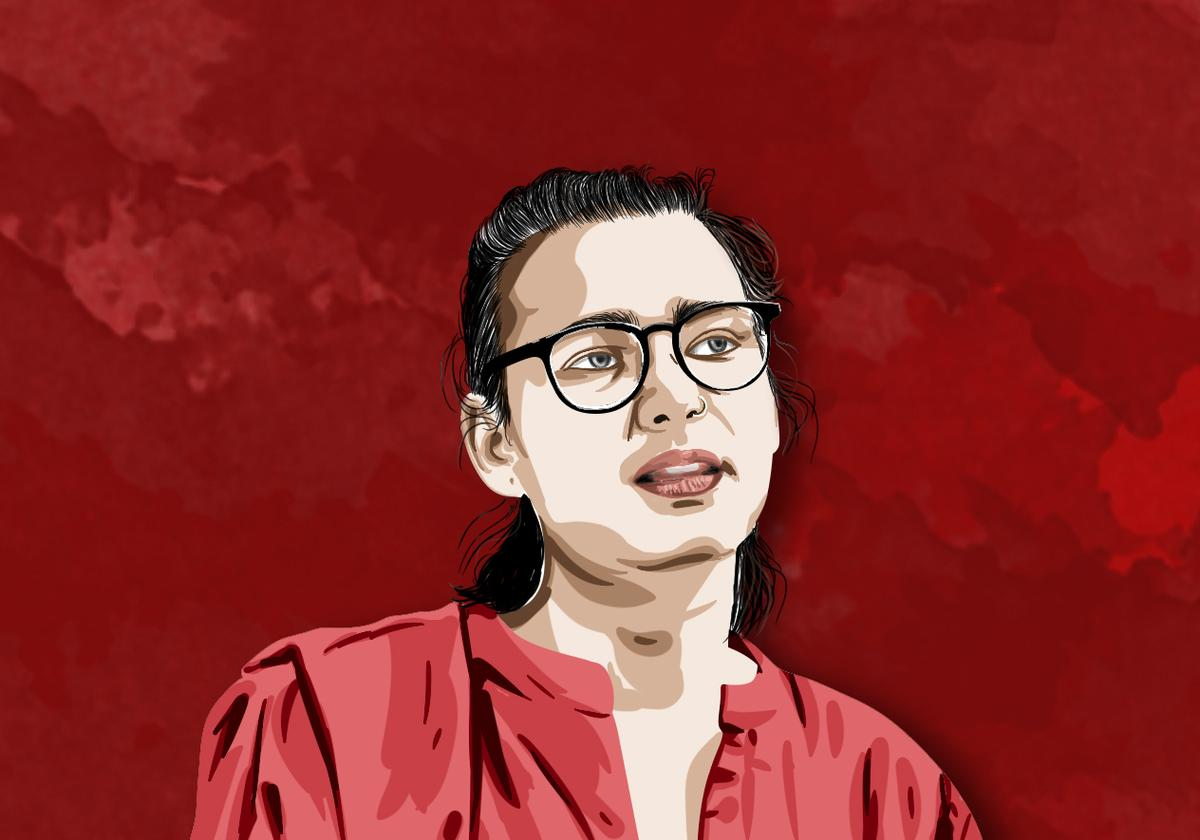
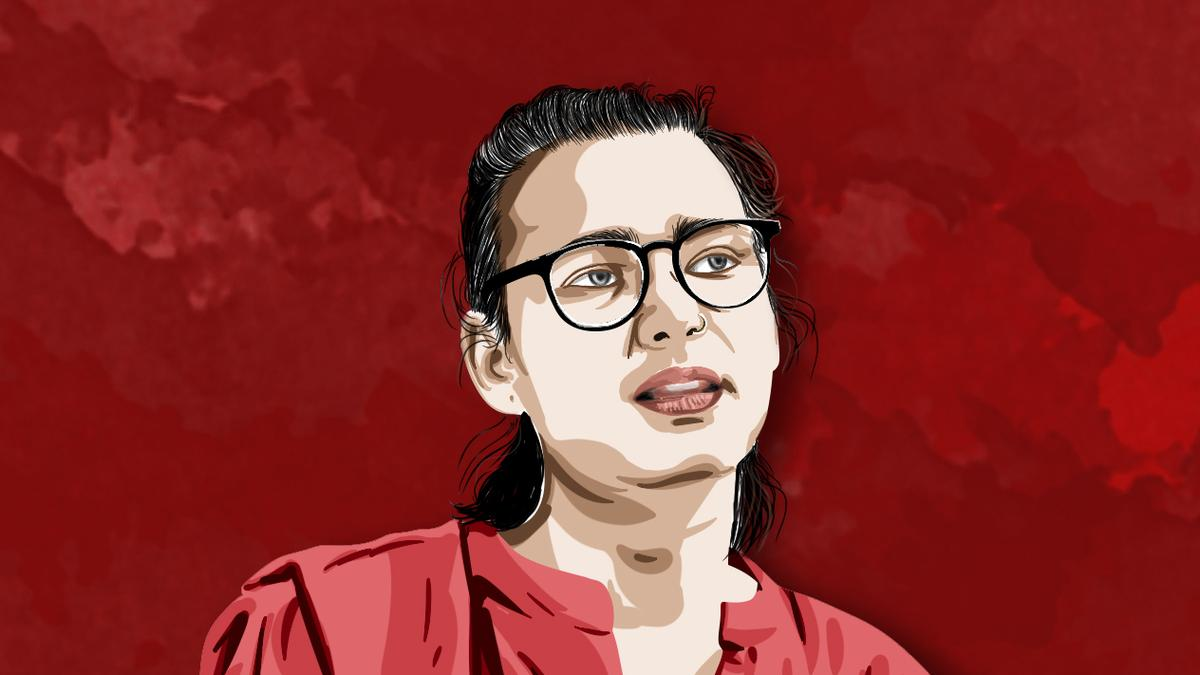
नेहा बोरा लेख में देशकाल की नज़र और स्रोत जोड़ें

diff --git a/src/vishesh.js b/src/vishesh.js
@@ -21,9 +21,9 @@ module.exports = function (H) {
   const loc = (w, lg) => (lg === "hi" || !w[lg] ? w : { ...w, ...w[lg] });
 
   const T = {
-    hi: { tag: "विशेष", by: "लिखा", tr: "हिंदी अनुवाद: देशकाल", orig: "मूल", read: "पूरा पढ़िए", share: "आगे भेजिए", copy: "लिंक कॉपी", also: "यह प्रस्तुति इन भाषाओं में भी:", back: "← मुखपृष्ठ", creditNote: "अनुमति के साथ" },
-    en: { tag: "Special", by: "By", tr: "English translation: Deshkaal desk", orig: "Original", read: "Read the whole piece", share: "Share", copy: "Copy link", also: "This piece is also in:", back: "← Home", creditNote: "With permission" },
-    ur: { tag: "خصوصی", by: "قلم", tr: "اردو ترجمہ: دیش کال ڈیسک", orig: "اصل", read: "پوری تحریر پڑھیں", share: "آگے بھیجیے", copy: "لنک کاپی", also: "یہ تحریر ان زبانوں میں بھی:", back: "→ سرورق", creditNote: "اجازت کے ساتھ" },
+    hi: { tag: "विशेष", by: "लिखा", tr: "हिंदी अनुवाद: देशकाल", orig: "मूल", read: "पूरा पढ़िए", share: "आगे भेजिए", copy: "लिंक कॉपी", also: "यह प्रस्तुति इन भाषाओं में भी:", back: "← मुखपृष्ठ", creditNote: "अनुमति के साथ", viewTitle: "देशकाल की नज़र", thinkTitle: "सोचने के लिए", originalLink: "मूल लेख पढ़ने के लिए यहां क्लिक करें", rights: "इस लेख के सारे अधिकार द हिंदू के पास हैं।" },
+    en: { tag: "Special", by: "By", tr: "English translation: Deshkaal desk", orig: "Original", read: "Read the whole piece", share: "Share", copy: "Copy link", also: "This piece is also in:", back: "← Home", creditNote: "With permission", viewTitle: "Deshkaal’s view", thinkTitle: "A question to consider", originalLink: "Click here to read the original article", rights: "All rights to this article belong to The Hindu." },
+    ur: { tag: "خصوصی", by: "قلم", tr: "اردو ترجمہ: دیش کال ڈیسک", orig: "اصل", read: "پوری تحریر پڑھیں", share: "آگے بھیجیے", copy: "لنک کاپی", also: "یہ تحریر ان زبانوں میں بھی:", back: "→ سرورق", creditNote: "اجازت کے ساتھ", viewTitle: "دیش کال کی نظر", thinkTitle: "سوچنے کے لیے", originalLink: "اصل مضمون پڑھنے کے لیے یہاں کلک کریں", rights: "اس مضمون کے تمام حقوق دی ہندو کے پاس ہیں۔" },
   };
   const LN = { hi: "हिंदी", en: "English", ur: "اردو" };
   const D = { hi: "अनुवाद", en: "Translated", ur: "ترجمہ" };
@@ -64,7 +64,7 @@ module.exports = function (H) {
   function page(w, lg = "hi") {
     const X = T[lg] || T.hi, t = loc(w, lg);
     const alt = { hi: url(w, "hi"), en: url(w, "en"), ur: url(w, "ur") };
-    const img = w.photo ? `<figure class="vh-cover"><img src="${esc(w.photo)}" alt="${esc(t.h)}" width="1200" height="840">${w.photoCap ? `<figcaption>${esc(w.photoCap)}</figcaption>` : ""}</figure>` : "";
+    const img = w.photo ? `<figure class="vh-cover"><img src="${esc(w.photo)}" alt="${esc(w.photoAlt || t.h)}" width="1200" height="840" onerror="this.hidden=true;this.parentNode.classList.add(&quot;vh-art-missing&quot;)">${w.photoCap ? `<figcaption>${esc(w.photoCap)}</figcaption>` : ""}</figure>` : "";
     const credit = w.src ? `<p class="vh-credit">${X.orig}: <a href="${esc(w.srcUrl || "#")}" target="_blank" rel="noopener">${esc(w.src)}</a>${w.srcDate ? `, ${esc(w.srcDate)}` : ""} · ${lg === "hi" ? X.tr : X.tr}</p>` : "";
     const body = `<article class="vh-page" data-id="${esc(w.id)}">
   <header class="vh-hero">
@@ -77,7 +77,11 @@ module.exports = function (H) {
   <div class="vh-txt">
     ${t.pull ? `<blockquote class="vh-q vh-q-lead">${esc(t.pull)}</blockquote>` : ""}
     ${(t.body || []).map(para).join("")}
-    ${credit}
+    ${(t.nazar || w.nazar || []).length ? `<aside class="vh-editorial"><p class="vh-section-k">${X.viewTitle}</p><h2>${lg === "hi" ? "आंदोलन का चेहरा, उसके पीछे की मेहनत" : lg === "en" ? "The face of a movement, and the work behind it" : "تحریک کا چہرہ، اور اس کے پیچھے کی محنت"}</h2>${(t.nazar || w.nazar).map(p => `<p>${esc(p)}</p>`).join("")}</aside>` : ""}
+    ${(t.sawal || w.sawal) ? `<aside class="vh-sawal"><span>${X.thinkTitle}</span><p>${esc(t.sawal || w.sawal)}</p></aside>` : ""}
+    ${w.srcUrl ? `<a class="vh-original" href="${esc(w.srcUrl)}" target="_blank" rel="noopener"><span>${esc(w.src || "")}${w.srcDate ? ` · ${esc(w.srcDate)}` : ""}</span><strong>${X.originalLink}</strong><i aria-hidden="true">↗</i></a>` : ""}
+    <p class="vh-rights">${X.rights}</p>
+    ${supportEnd ? supportEnd() : ""}
     ${share(w, lg)}
     ${Object.keys(alt).filter(l => l !== lg && l !== "hi" || (l === "hi" && lg !== "hi")).length ? `<p class="vh-also">${X.also} ${Object.keys(alt).filter(l => l !== lg).map(l => `<a href="${alt[l]}" lang="${l}">${LN[l]}</a>`).join(" · ")}</p>` : ""}
     <p class="vh-back"><a href="${P(lg)}/">${X.back}</a></p>

diff --git a/src/styles.css b/src/styles.css
@@ -1595,3 +1595,25 @@ html[dir="rtl"] .hw-fig figcaption{padding:0;border:0}
   .vh-q{font-size:18px}
 }
 @media(prefers-reduced-motion:reduce){.vh-art img{transition:none}.vh-band:hover .vh-art img{transform:none}}
+
+/* नेहा बोरा लेख: देशकाल की नज़र, स्रोत और पाठक-सहयोग */
+.vh-cover{position:relative;aspect-ratio:3/2;overflow:hidden;background:#781f24}
+.vh-cover img{position:absolute;inset:0;width:100%;height:100%;object-fit:cover;object-position:center 43%}
+.vh-cover figcaption{position:absolute;inset:auto 0 0;margin:0;padding:30px 14px 10px;color:#fff;background:linear-gradient(transparent,rgba(18,15,15,.72));font-family:var(--f-ui);font-size:12px}
+.vh-editorial{margin:clamp(34px,5vw,60px) 0 24px;padding:clamp(22px,4vw,40px);background:linear-gradient(135deg,#efe8dc,#f8f4ec);border-top:5px solid var(--lal);border-bottom:1px solid var(--hair)}
+.vh-section-k{margin:0 0 8px!important;font-family:var(--f-ui);font-size:13px!important;font-weight:800;letter-spacing:.1em;color:var(--lal);text-transform:uppercase}
+.vh-editorial h2{margin:0 0 16px;font-family:var(--f-head);font-size:clamp(25px,3vw,36px);line-height:1.18}
+.vh-editorial p:not(.vh-section-k){max-width:68ch;margin:0 0 12px}
+.vh-editorial p:last-child{margin-bottom:0}
+.vh-sawal{margin:22px 0;padding:20px 24px;border-left:4px solid var(--lal);background:#171615;color:#fff}
+.vh-sawal span{display:block;margin:0 0 8px;font:700 12px/1.4 var(--f-ui);letter-spacing:.12em;color:#e76a5e}
+.vh-sawal p{margin:0!important;font:600 clamp(19px,2.2vw,26px)/1.5 var(--f-dek)}
+.vh-original{position:relative;display:grid;grid-template-columns:1fr auto;gap:8px 24px;align-items:center;margin:22px 0 10px;padding:20px 24px;background:var(--lal);color:#fff!important;text-decoration:none;border:1px solid #a52622}
+.vh-original:hover{background:#ae2925;color:#fff!important}
+.vh-original>span{grid-column:1/-1;font:700 12px/1.4 var(--f-ui);letter-spacing:.1em;text-transform:uppercase;opacity:.9}
+.vh-original strong{font:700 clamp(18px,2vw,22px)/1.35 var(--f-ui)}
+.vh-original i{font:normal 24px/1 var(--f-ui)}
+.vh-rights{margin:0 0 24px!important;padding:10px 0;border-bottom:1px solid var(--hair);font:13px/1.6 var(--f-ui);color:var(--ink-2)}
+.vh-page .article-support{margin:0 0 26px}
+.vh-page .share{margin-top:26px}
+@media(max-width:600px){.vh-editorial{padding:20px 17px}.vh-sawal{padding:18px}.vh-original{padding:17px}}

diff --git a/build.js b/build.js
@@ -628,7 +628,7 @@ function mdPage(file, title, desc, url, h2) {
   return layout({ title, desc, url: PRE + url, body: `<section class="page2 policy"><h2>${h2}</h2>${html}</section>`, alt: languageURLs(url, available), noindex: !available.includes(LG) });
 }
 const HS = require("./src/hamsafar.js")({ layout: (...a) => layout(...a), esc, dayLabel: d => dayLabel(d), SITE, LATEST: IST_TODAY });
-const VH = require("./src/vishesh.js")({ layout: (...a) => layout(...a), esc, dayLabel: d => dayLabel(d), SITE, LATEST: IST_TODAY });
+const VH = require("./src/vishesh.js")({ layout: (...a) => layout(...a), esc, dayLabel: d => dayLabel(d), SITE, LATEST: IST_TODAY, supportEnd });
 const PG = {
   hi: { pol: ["संपादकीय नीति", "देशकाल किन टिप्पणियों को चुनता है और क्यों।", "हमारी संपादकीय नीति"], pri: ["निजता नीति", "देशकाल आपकी कौन सी जानकारी रखता है, कहां और कैसे हटवाएं।", "निजता नीति"] },
   en: { pol: ["Editorial policy", "What commentary Deshkaal chooses, and why.", "Our editorial policy"], pri: ["Privacy policy", "What information Deshkaal keeps, where, and how to have it removed.", "Privacy policy"] },
